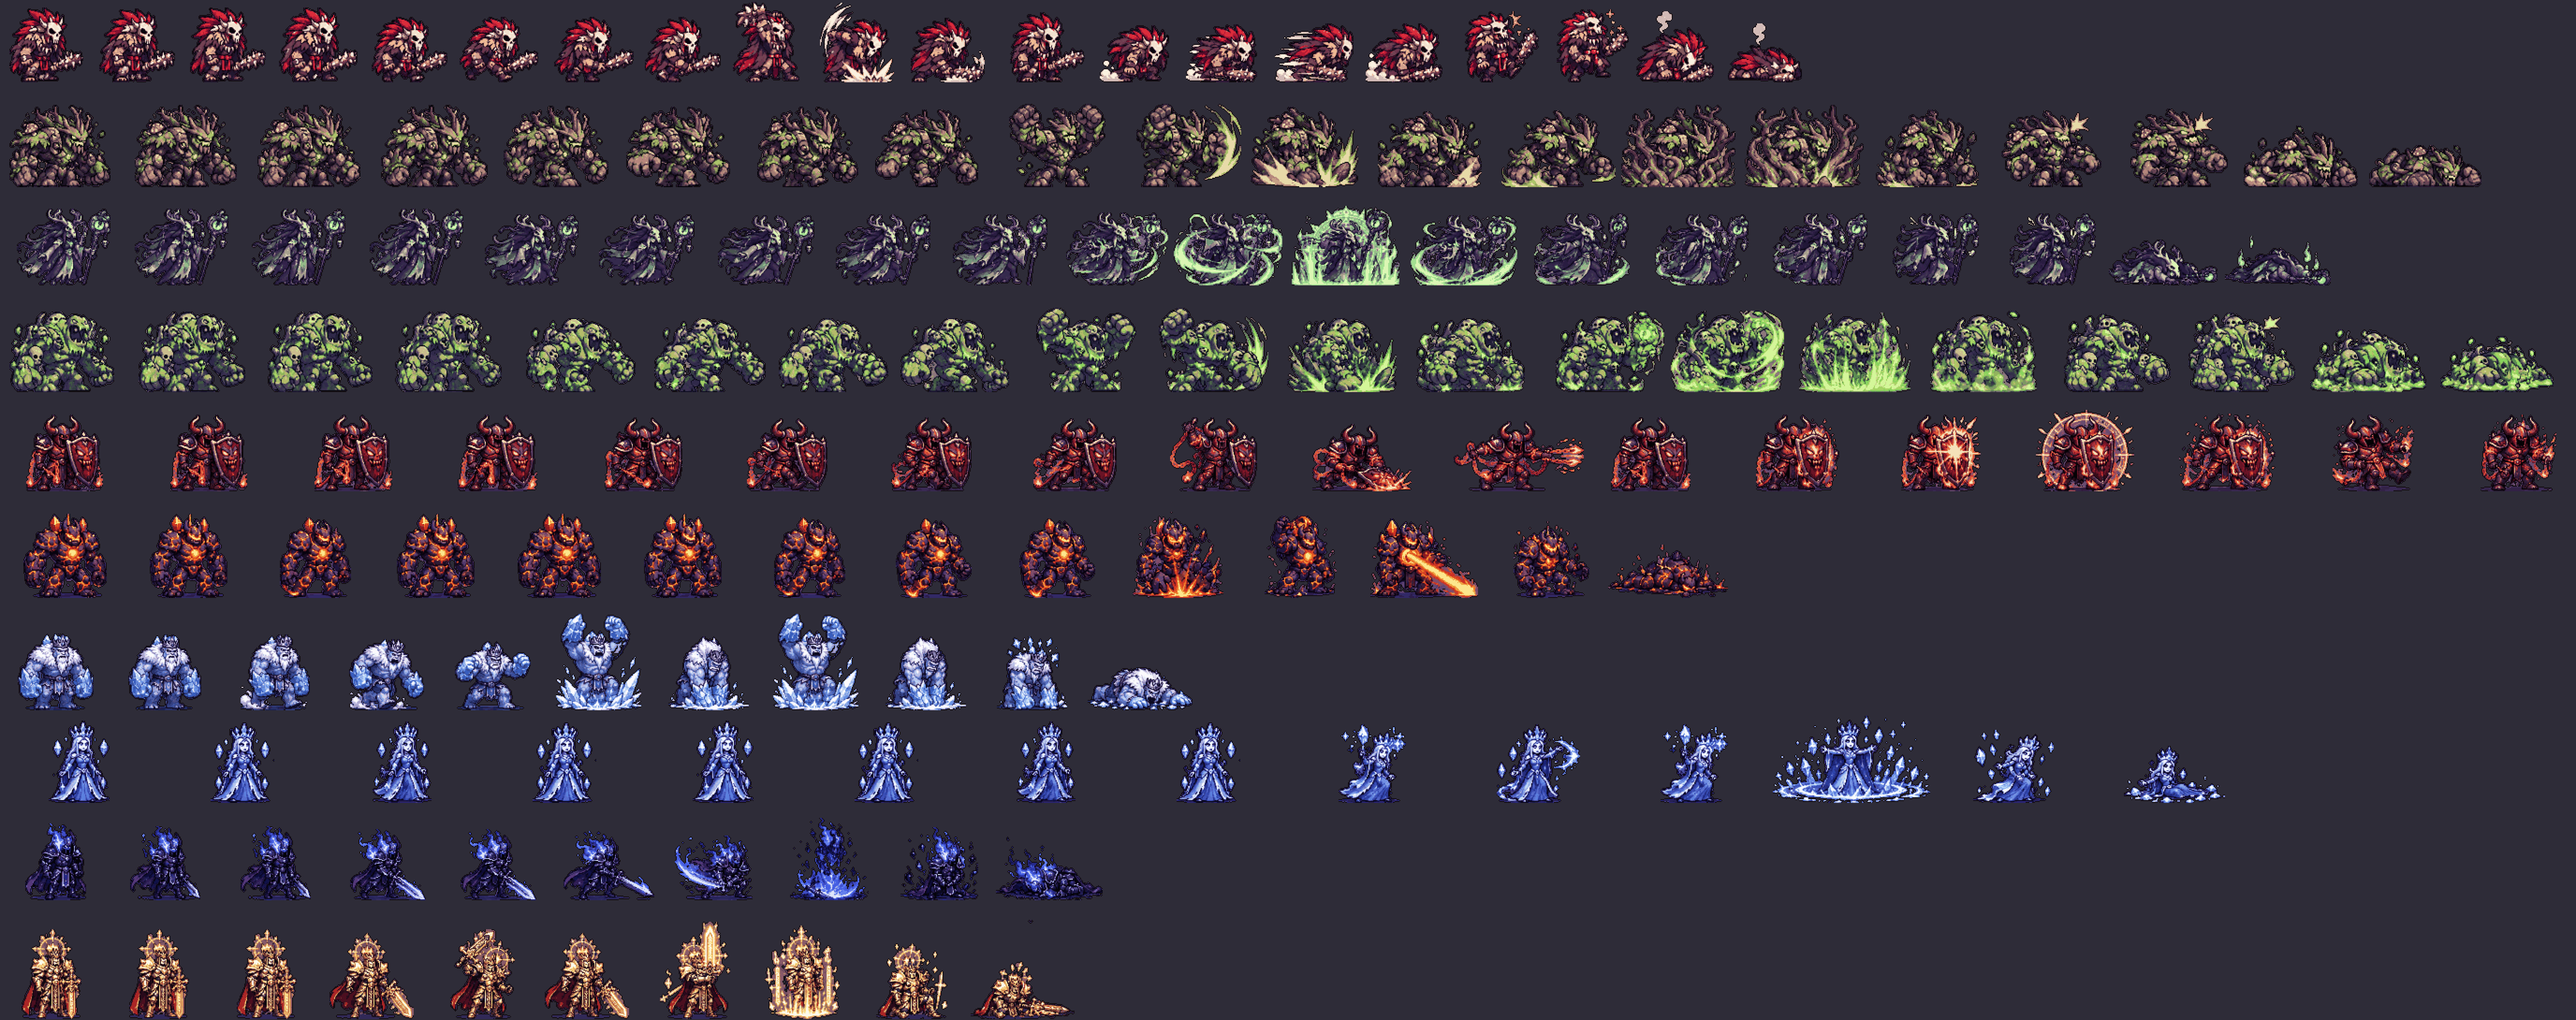
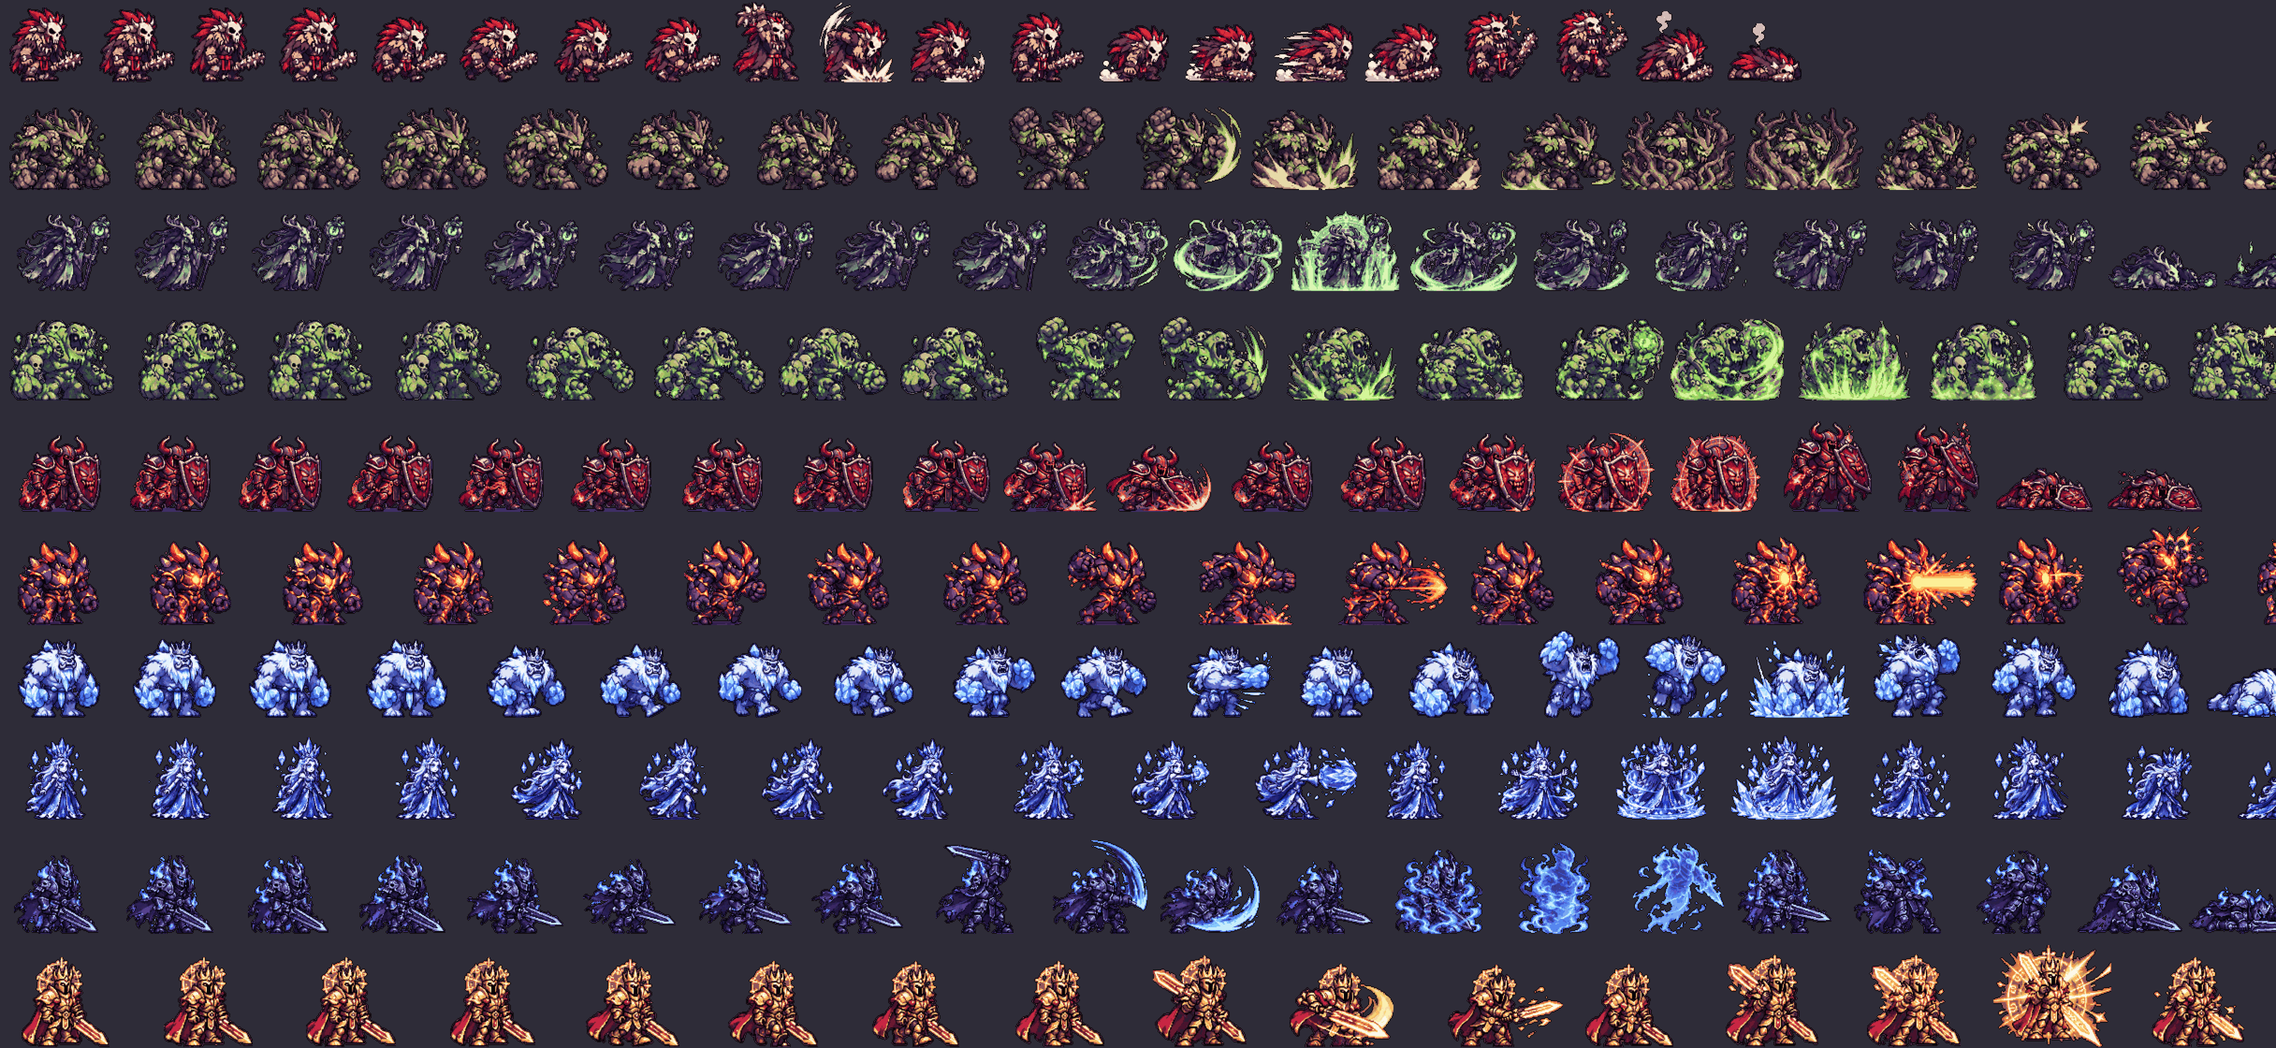
1~50층 보스 여섯 명(균열 수호자 · 얼음 오우거 왕 · 서리 마녀 · 망령 기사단장 · 각인의 왕 · 방패 악귀 대장)을 새로 보내 주신 4칸 × 5줄 동작 시트로 (한 줄 9장면 시트 대신) — 이제 1~50층 보스 열 명이 모두 서기 · 걷기 · 공격 · 기술 · 맞음 · 쓰러짐 20장면
Claude-Session: https://claude.ai/code/session_01BGWizNepEyNmsyyJkBW7hP

diff --git a/tools/cut_boss_sheets.py b/tools/cut_boss_sheets.py
@@ -19,6 +19,11 @@ SHEETS = [
     ('boss_bogHag.png', None, 4, 'bogHag', GRID, 82),
     ('boss_climbQueen.png', None, 4, 'climbQueen', GRID, 86),
     ('boss_demonCaptain.png', None, 4, 'demonCaptain', GRID, 82),
+    ('boss_climbRift.png', None, 4, 'climbRift', GRID, 90),
+    ('boss_frostOgre.png', None, 4, 'frostOgre', GRID, 84),
+    ('boss_climbWitch.png', None, 4, 'climbWitch', GRID, 88),
+    ('boss_wraithLord.png', None, 4, 'wraithLord', GRID, 84),
+    ('boss_engraveKing.png', None, 4, 'engraveKing', GRID, 96),
 ]
 ROW9 = 'boss_row9_rift_ogre_witch_wraith_king.png'
 # 한 줄에 한 보스 (줄 번호, 보스, 동작 → 그 줄의 장면 번호, 게임 키)
@@ -135,8 +140,11 @@ def anchor(fr):
 def boss_sets():
     out = []
     for fn, _, n, boss, anims, tall in SHEETS: out.append((boss, frames_of(fn, n), anims, tall))
-    allf = frames_of(ROW9, [9, 9, 8, 8, 8])
-    for r, boss, anims, tall in ROW9_BOSSES: out.append((boss, [f for f in allf if f.row == r], anims, tall))
+    done = {b for _, _, _, b, _, _ in SHEETS}
+    if any(b not in done for _, b, _, _ in ROW9_BOSSES):  # 한 줄 9장면 시트: 4칸 × 5줄 시트가 없는 보스만
+        allf = frames_of(ROW9, [9, 9, 8, 8, 8])
+        for r, boss, anims, tall in ROW9_BOSSES:
+            if boss not in done: out.append((boss, [f for f in allf if f.row == r], anims, tall))
     return out
 
 def build_sets():
